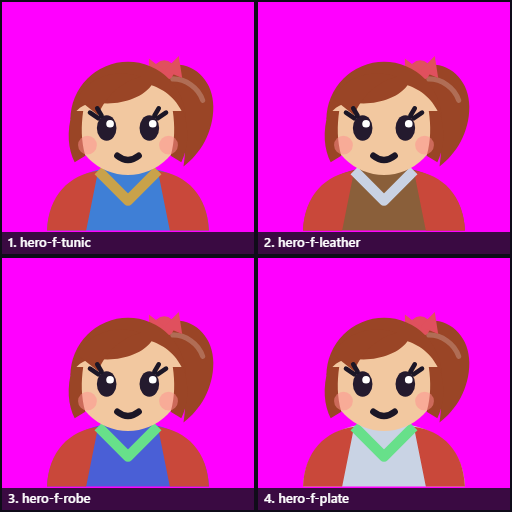
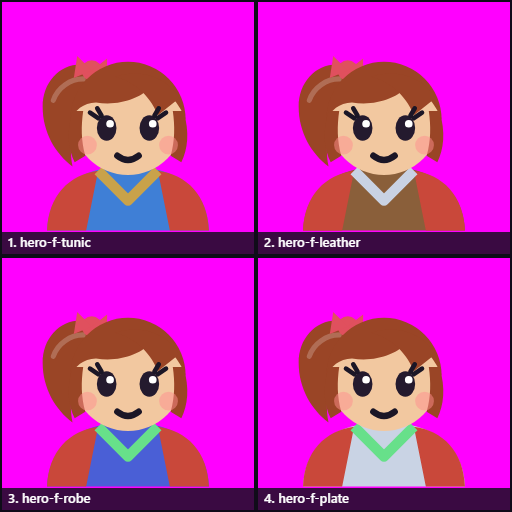
Girl hero portraits: the reference and prompt face her to the viewer's right (#72)
Claude-Session: https://claude.ai/code/session_01A7UkwS8cW6jbzfjmdZw9Ep

diff --git a/src/game/art/artSheet.ts b/src/game/art/artSheet.ts
@@ -547,7 +547,8 @@ export const SETS: readonly ArtSet[] = [
     oneCharacter: [
       'ONE CHARACTER — all 4 panels are the SAME young girl hero, the player\'s own character, painted four times. That is the whole point of this sheet.',
       '· The same face in every panel: the same head shape, the same big eyes with dark lashes flicking out at the outer corners, the same fine arched brows, the same small smile and rosy cheeks, the same proportions, the same age. A likeable, determined chibi adventurer girl, young but not a child.',
-      '· The same hair in every panel: warm auburn (about #9a4526), a soft side-swept fringe, one lock framing each cheek, and a high ponytail at the back of the head tied with a red ribbon bow (about #e0505e); the ponytail shows beside the head.',
+      '· The same hair in every panel: warm auburn (about #9a4526), a soft side-swept fringe, one lock framing each cheek, and a high ponytail at the back of the head tied with a red ribbon bow (about #e0505e); the ponytail shows beside the head ON THE VIEWER’S LEFT and the fringe sweeps from the viewer’s right, exactly as in the layout reference.',
+      '· She FACES THE VIEWER’S RIGHT: a slight three-quarter turn of the head and shoulders toward the right edge of the panel, the same way in all four panels (the game mirrors the portrait when she walks left). Never toward the left.',
       '· The same skin in every panel: fair and warm (about #f2c8a0). Green eyes (about #3fa66a).',
       '· ONLY THE CLOTHES CHANGE between the panels, as each panel\'s line says. No helmet, no hat, no hood: the face and hair always show.',
       '· Four different people side by side is the wrong answer however well each is painted. Hold panel 1 against panel 4: if the face is not obviously the same person, it is not usable.',

diff --git a/art-sheets/PROMPTS-PORTRAITS.md b/art-sheets/PROMPTS-PORTRAITS.md
@@ -340,7 +340,8 @@ ONE HAND — all 4 busts are the same kind of character drawn by the same artist
 
 ONE CHARACTER — all 4 panels are the SAME young girl hero, the player's own character, painted four times. That is the whole point of this sheet.
 · The same face in every panel: the same head shape, the same big eyes with dark lashes flicking out at the outer corners, the same fine arched brows, the same small smile and rosy cheeks, the same proportions, the same age. A likeable, determined chibi adventurer girl, young but not a child.
-· The same hair in every panel: warm auburn (about #9a4526), a soft side-swept fringe, one lock framing each cheek, and a high ponytail at the back of the head tied with a red ribbon bow (about #e0505e); the ponytail shows beside the head.
+· The same hair in every panel: warm auburn (about #9a4526), a soft side-swept fringe, one lock framing each cheek, and a high ponytail at the back of the head tied with a red ribbon bow (about #e0505e); the ponytail shows beside the head ON THE VIEWER’S LEFT and the fringe sweeps from the viewer’s right, exactly as in the layout reference.
+· She FACES THE VIEWER’S RIGHT: a slight three-quarter turn of the head and shoulders toward the right edge of the panel, the same way in all four panels (the game mirrors the portrait when she walks left). Never toward the left.
 · The same skin in every panel: fair and warm (about #f2c8a0). Green eyes (about #3fa66a).
 · ONLY THE CLOTHES CHANGE between the panels, as each panel's line says. No helmet, no hat, no hood: the face and hair always show.
 · Four different people side by side is the wrong answer however well each is painted. Hold panel 1 against panel 4: if the face is not obviously the same person, it is not usable.

diff --git a/art-sheets/PAINT-STATUS.md b/art-sheets/PAINT-STATUS.md
@@ -26,7 +26,7 @@ after painting or slicing anything.
 | ✓ | **Portraits: trainers** | `PROMPTS-PORTRAITS.md` | `sheet-portraits-trainers.png` (rev `770414fa440b`) | sliced 2026-10-02 |
 | ✓ | **Portraits: quest speakers** | `PROMPTS-PORTRAITS.md` | `sheet-portraits-speakers.png` (rev `58641c102acc`) | sliced 2026-10-03 |
 | ✓ | **Portraits: the hero, per outfit** | `PROMPTS-PORTRAITS.md` | `sheet-portraits-hero.png` (rev `75c7036e6e95`) | sliced 2026-10-03 |
-| · | **Portraits: the girl hero, per outfit** | `PROMPTS-PORTRAITS.md` | `sheet-portraits-girl.png` (rev `ad9a7c7fc671`) | not painted yet |
+| · | **Portraits: the girl hero, per outfit** | `PROMPTS-PORTRAITS.md` | `sheet-portraits-girl.png` (rev `7e58d5984004`) | not painted yet |
 | ✓ | **Icons: class emblems** | `PROMPTS-ICONS.md` | `sheet-icons-classes.png` (rev `5b8dd08575e3`) | sliced 2026-10-03 |
 | ✓ | **Icons: status effects (1 of 3)** | `PROMPTS-ICONS.md` | `sheet-icons-status-1.png` (rev `3b679b490b8f`) | sliced 2026-10-03 |
 | ✓ | **Icons: status effects (2 of 3)** | `PROMPTS-ICONS.md` | `sheet-icons-status-2.png` (rev `6a52868c9374`) | sliced 2026-10-03 |
